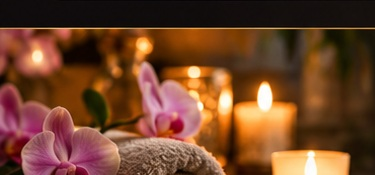
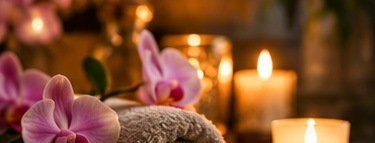
portfolio/lumiere

diff --git a/portfolio/lumiere/styles.css b/portfolio/lumiere/styles.css
@@ -344,36 +344,25 @@ body:has(.contact-main) .contact-main{padding-bottom:60px}
   .treatment-detail .treatment-image { height:240px; }
 }
 
-/* Final mobile services corrections: target image content rather than card padding. */
-@media (max-width: 800px) {
-  /* Original JPEGs have a dark strip at their upper edge. Crop it inside the frame. */
-  body:has(.treatment-list) .treatment-detail .treatment-image {
-    height: 240px !important;
-    min-height: 0 !important;
-    max-height: none !important;
-    padding: 0 !important;
-    overflow: hidden;
-  }
-  body:has(.treatment-list) .treatment-detail .treatment-image img {
-    display: block;
-    height: calc(100% + 34px) !important;
-    width: 100%;
-    min-height: 0 !important;
-    max-height: none !important;
-    margin-top: -26px !important;
-    object-fit: cover;
-    object-position: center center;
-    transform: none !important;
-  }
-  /* Closing photo has its own dark upper strip: zoom the image, not the section. */
-  body:has(.treatment-list) .treat-cta {
-    background-size: cover, auto 135% !important;
-    background-position: center, center bottom !important;
-    padding-top: 34px !important;
-    padding-bottom: 42px !important;
-    border-top: 1px solid #8d6536 !important;
-  }
-  /* A shorter, more balanced services hero, without changing the homepage. */
-  body:has(.treatment-list) .treat-hero { min-height: 0 !important; }
-  body:has(.treatment-list) .treat-hero-inner { padding-top: 42px !important; padding-bottom: 42px !important; }
+
+/* Services page corrections: source image borders cropped from JPEGs. */
+body:has(.treatment-list) .treatment-detail .treatment-image {padding:0;overflow:hidden;min-height:0;}
+body:has(.treatment-list) .treatment-detail .treatment-image img {display:block;width:100%;height:100%;min-height:0;object-fit:cover;margin:0;transform:none;}
+body:has(.treatment-list) .treatment-detail:hover img {transform:none;}
+/* The services closing area is text-and-brand only, with no stray left photograph. */
+body:has(.treatment-list) .closing {grid-template-columns:42% 58%;}
+body:has(.treatment-list) .closing-photo {display:none;}
+body:has(.treatment-list) .closing-brand {min-width:0;}
+/* The cropped background no longer contains the baked-in horizontal stripe. */
+body:has(.treatment-list) .treat-cta {background-position:center center;}
+@media(max-width:800px){
+ body:has(.treatment-list) .treatment-detail .treatment-image {height:240px;min-height:0;max-height:none;}
+ body:has(.treatment-list) .treatment-detail .treatment-image img {height:100%;min-height:0;max-height:none;}
+ body:has(.treatment-list) .treatment-intro {padding-bottom:0;}
+ body:has(.treatment-list) .treatment-intro>.wrap {padding-bottom:0;}
+ body:has(.treatment-list) .treat-cta {padding-top:38px;padding-bottom:44px;}
+ body:has(.treatment-list) .treat-hero {min-height:0;}
+ body:has(.treatment-list) .treat-hero-inner {padding-top:42px;padding-bottom:42px;}
+ body:has(.treatment-list) .closing {display:flex;flex-direction:column;align-items:center;}
+ body:has(.treatment-list) .closing-brand {border-right:0;width:100%;}
 }
